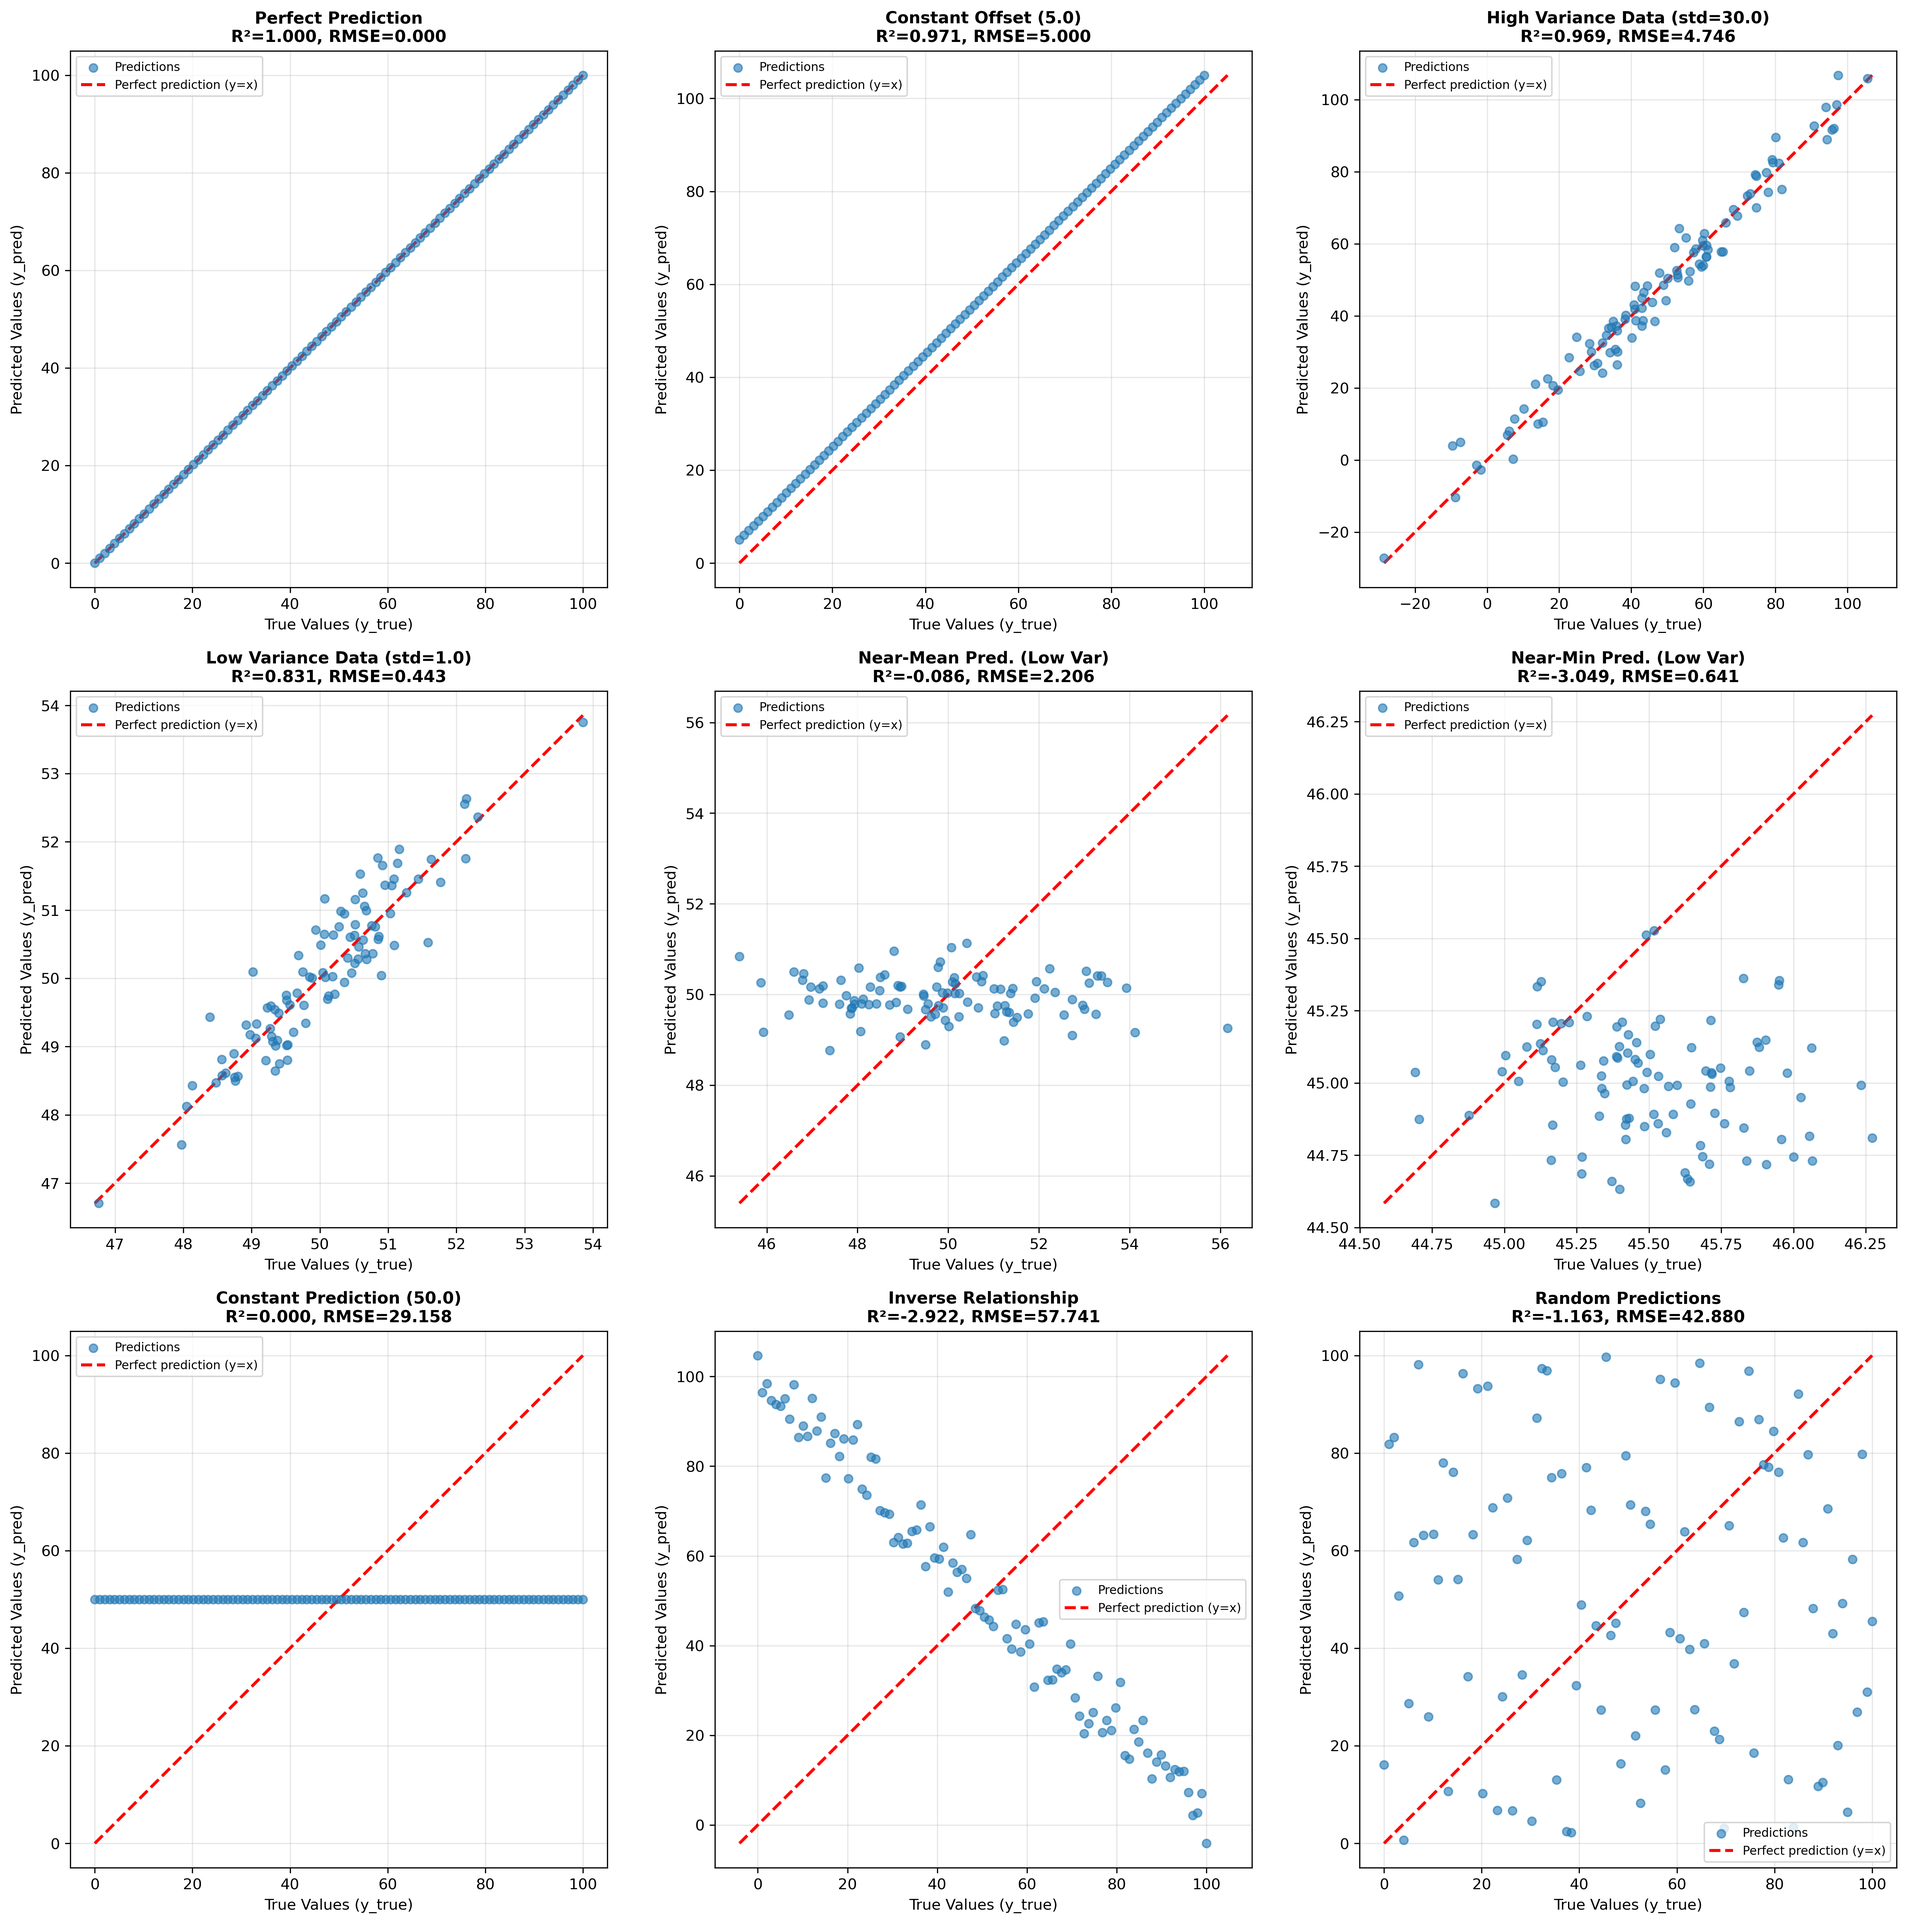
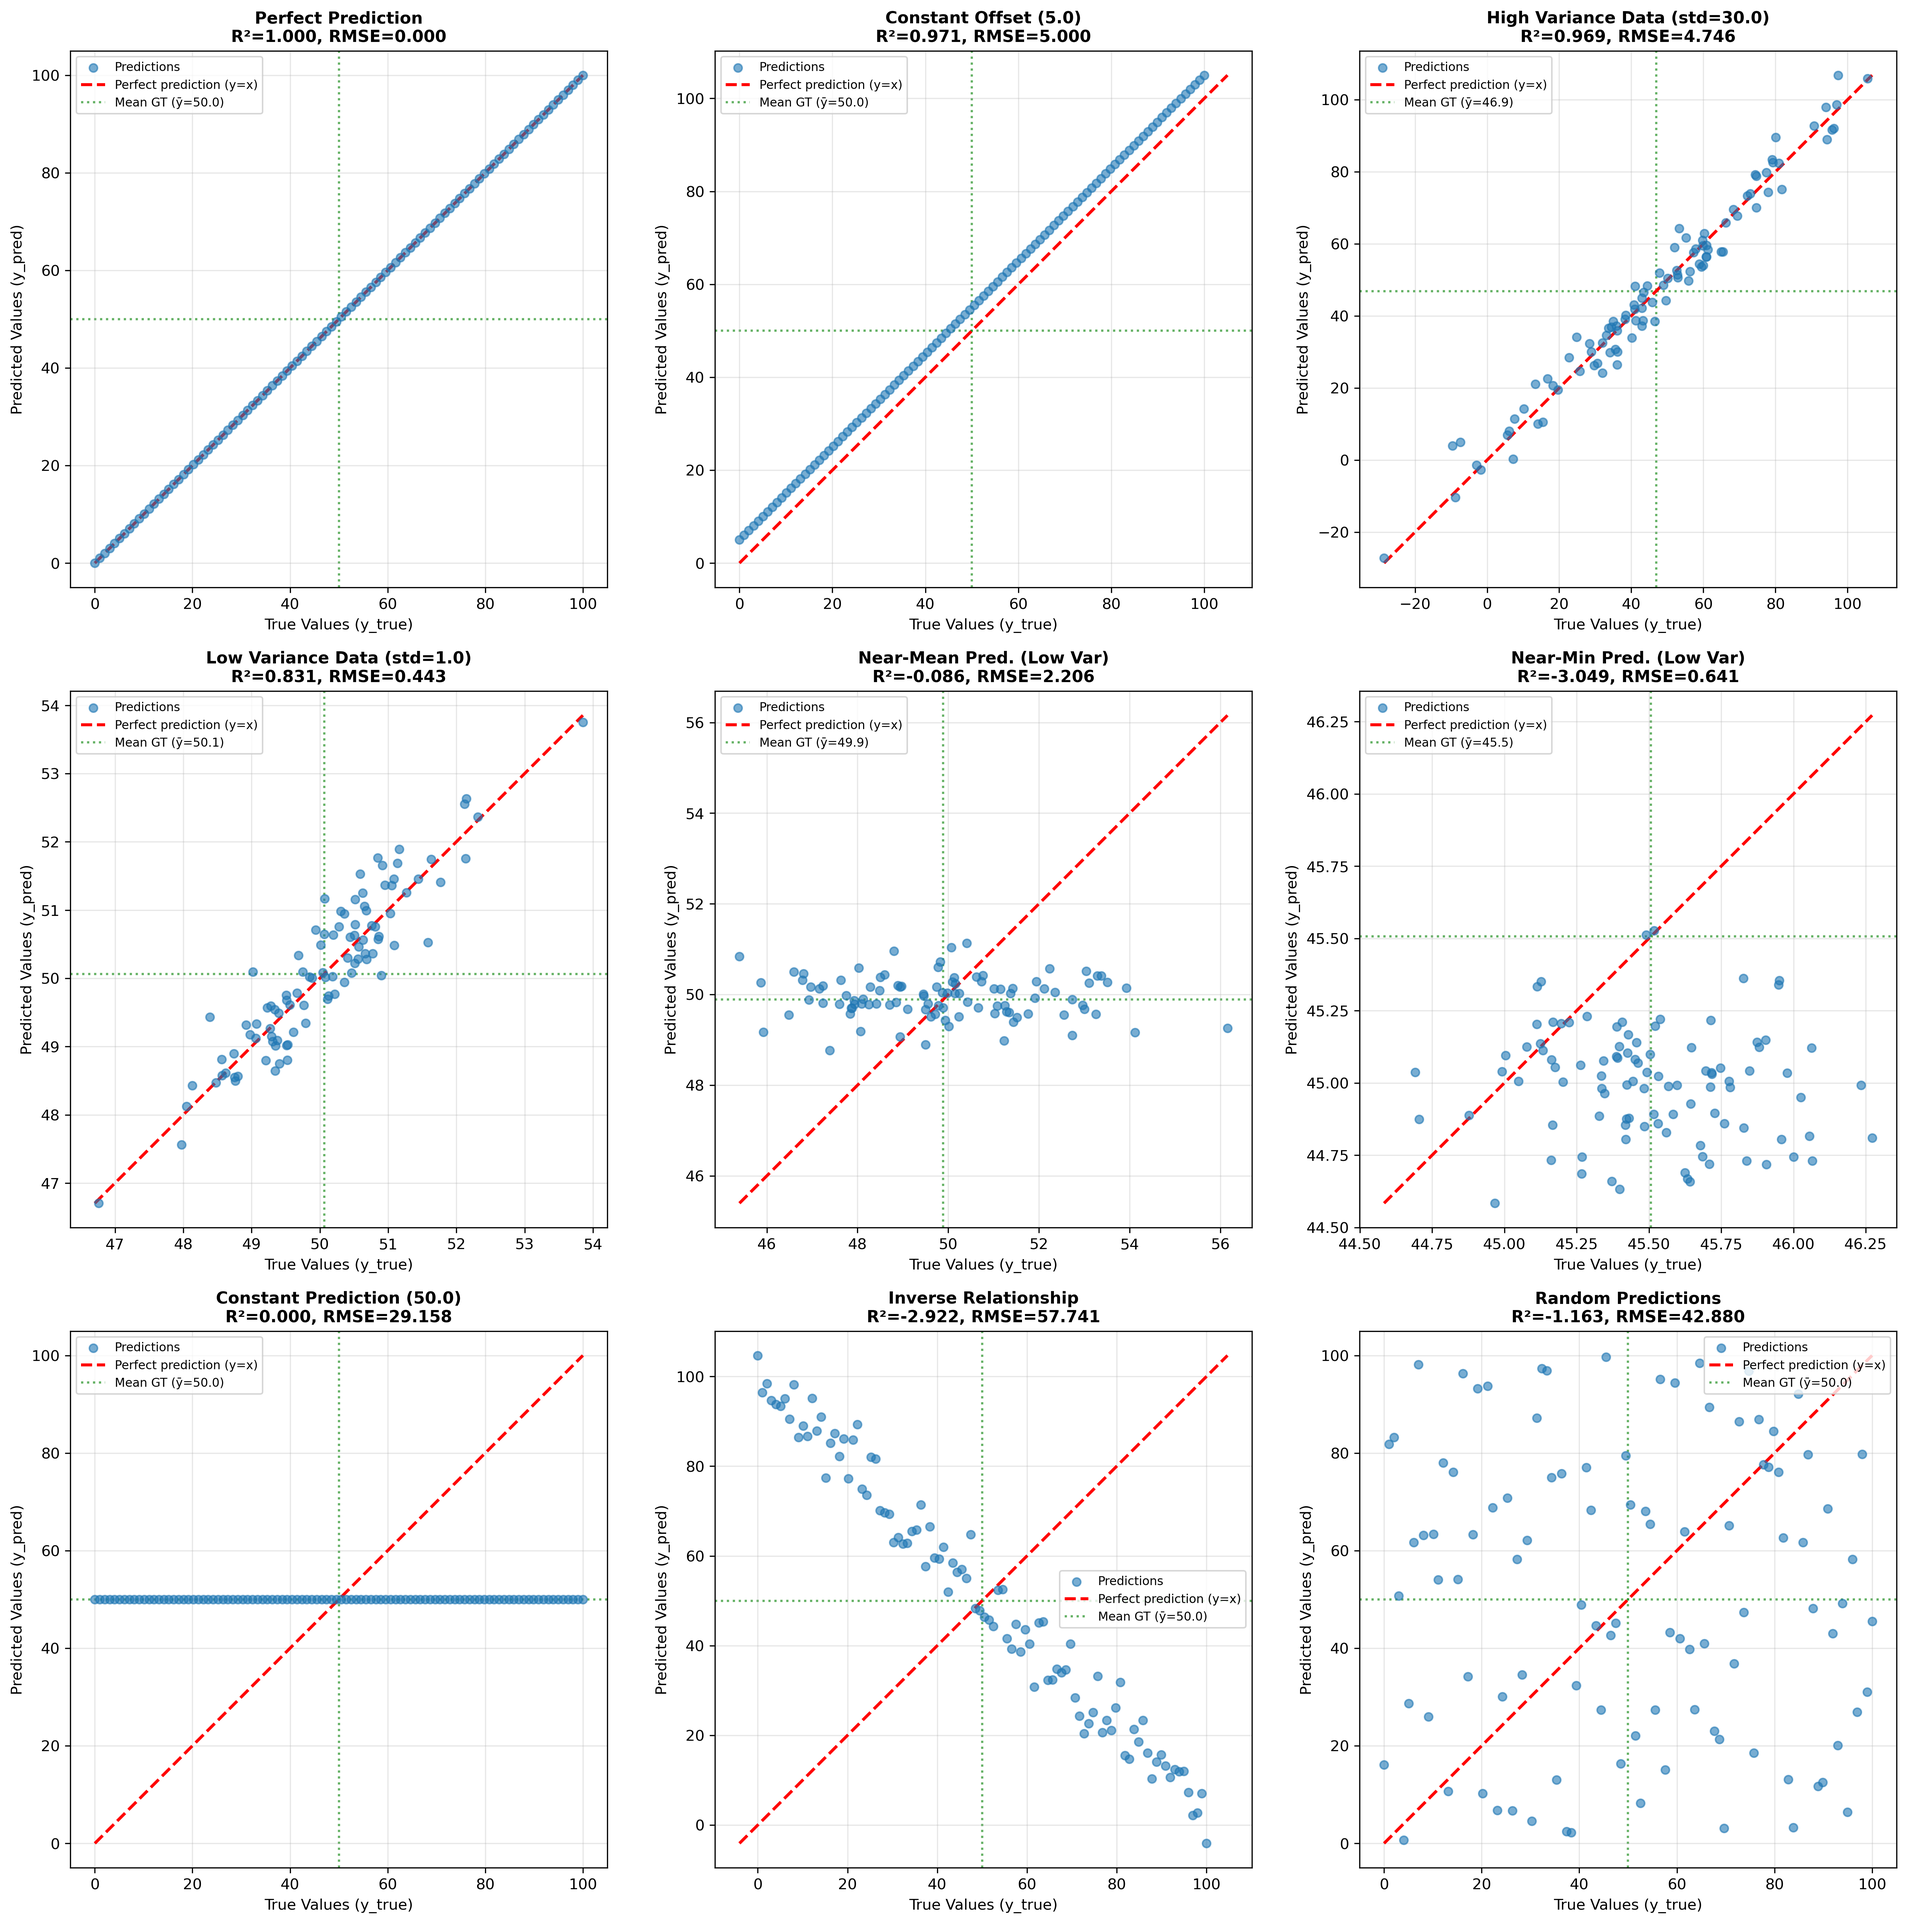
Add Mean GT lines to scenario comparison, purple SS_total lines to visual guide, and heatmap interpretation; Move docs to docs folder

Changed region(s): [[0.5621, 0.8093, 0.6558, 0.8404], [0.9056, 0.9338, 0.968, 0.965], [0.9056, 0.6848, 0.9368, 0.7159]]

diff --git a/investigate_r_score_rmse_synergy.py b/investigate_r_score_rmse_synergy.py
@@ -214,15 +214,13 @@ def visualize_scenario(scenario: Dict, ax: plt.Axes, show_details: bool = False)
     ax.plot([plot_min, plot_max], [plot_min, plot_max],
             'r--', linewidth=2, label='Perfect prediction (y=x)', zorder=2)
     
+    # Always show mean lines for visual reference
+    ax.axhline(y=y_mean, color='green', linestyle=':', linewidth=1.5, 
+               label=f'Mean GT (ȳ={y_mean:.1f})', alpha=0.6, zorder=1)
+    ax.axvline(x=y_mean, color='green', linestyle=':', linewidth=1.5, 
+               alpha=0.6, zorder=1)
+    
     if show_details:
-        # Add horizontal line at mean of y_true
-        ax.axhline(y=y_mean, color='green', linestyle=':', linewidth=2, 
-                   label=f'Mean GT (ȳ={y_mean:.1f})', alpha=0.7, zorder=1)
-        
-        # Add vertical line at mean of y_true
-        ax.axvline(x=y_mean, color='green', linestyle=':', linewidth=2, 
-                   alpha=0.7, zorder=1)
-        
         # Show residuals for a few points
         sample_indices = np.linspace(0, len(y_true)-1, min(5, len(y_true)), dtype=int)
         for idx in sample_indices:
@@ -480,26 +478,50 @@ def create_rmse_r2_heatmap(n_points: int = 50) -> None:
     im1 = ax1.contourf(noise_range, variance_range, r2_grid, levels=20, cmap='RdYlGn')
     ax1.set_xscale('log')
     ax1.set_yscale('log')
-    ax1.set_xlabel('Prediction Noise (σ)', fontsize=12)
-    ax1.set_ylabel('Ground Truth Variance (σ²)', fontsize=12)
-    ax1.set_title('R² Score Heatmap', fontsize=14, fontweight='bold')
-    plt.colorbar(im1, ax=ax1, label='R² Score')
+    ax1.set_xlabel('Prediction Noise (σ)', fontsize=12, fontweight='bold')
+    ax1.set_ylabel('Ground Truth Variance (σ²)', fontsize=12, fontweight='bold')
+    ax1.set_title('R² Score Heatmap\nHow R² varies with data variance and prediction noise', 
+                  fontsize=13, fontweight='bold')
+    cbar1 = plt.colorbar(im1, ax=ax1, label='R² Score')
     ax1.grid(True, alpha=0.3)
+    
+    # Add interpretation text
+    ax1.text(0.02, 0.98, 'High variance + Low noise → High R²\nLow variance + High noise → Low/Negative R²', 
+             transform=ax1.transAxes, fontsize=9, va='top',
+             bbox=dict(boxstyle='round', facecolor='wheat', alpha=0.8))
     
     # Plot 2: RMSE heatmap
     im2 = ax2.contourf(noise_range, variance_range, rmse_grid, levels=20, cmap='YlOrRd')
     ax2.set_xscale('log')
     ax2.set_yscale('log')
-    ax2.set_xlabel('Prediction Noise (σ)', fontsize=12)
-    ax2.set_ylabel('Ground Truth Variance (σ²)', fontsize=12)
-    ax2.set_title('RMSE Heatmap', fontsize=14, fontweight='bold')
-    plt.colorbar(im2, ax=ax2, label='RMSE')
+    ax2.set_xlabel('Prediction Noise (σ)', fontsize=12, fontweight='bold')
+    ax2.set_ylabel('Ground Truth Variance (σ²)', fontsize=12, fontweight='bold')
+    ax2.set_title('RMSE Heatmap\nHow RMSE varies with data variance and prediction noise', 
+                  fontsize=13, fontweight='bold')
+    cbar2 = plt.colorbar(im2, ax=ax2, label='RMSE')
     ax2.grid(True, alpha=0.3)
+    
+    # Add interpretation text
+    ax2.text(0.02, 0.98, 'RMSE ≈ Prediction Noise (σ)\nIndependent of ground truth variance!', 
+             transform=ax2.transAxes, fontsize=9, va='top',
+             bbox=dict(boxstyle='round', facecolor='lightyellow', alpha=0.8))
+    
+    # Add overall figure title
+    fig.suptitle('Impact of Ground Truth Variance and Prediction Noise on Metrics\n' + 
+                 'Key Insight: RMSE depends only on noise, but R² depends on BOTH variance and noise',
+                 fontsize=14, fontweight='bold', y=1.00)
     
     plt.tight_layout()
     output_path = PLOTS_DIR / 'variance_noise_impact_heatmap.png'
     plt.savefig(output_path, dpi=300, bbox_inches='tight')
     print(f"Saved: {output_path}")
+    print(f"\nHeatmap Interpretation:")
+    print(f"  LEFT (R² Heatmap): Shows R² is sensitive to BOTH variance and noise")
+    print(f"    - Green (high R²): High variance OR low noise")
+    print(f"    - Red (low R²): Low variance AND high noise")
+    print(f"  RIGHT (RMSE Heatmap): Shows RMSE depends mainly on prediction noise")
+    print(f"    - RMSE ≈ prediction noise (horizontal bands)")
+    print(f"    - Ground truth variance has minimal effect on RMSE")
     plt.close(fig)  # Close instead of show for non-interactive mode
 
 

diff --git a/create_visual_guide.py b/create_visual_guide.py
@@ -33,13 +33,16 @@ ax1.axvline(x=y_mean, color='green', linestyle=':', linewidth=3, alpha=0.8, zord
 # Draw red line (y=x)
 ax1.plot([0, 10], [0, 10], 'r--', linewidth=3, alpha=0.8, zorder=2)
 
-# Draw points and residuals
+# Draw points, residuals, and SS_total components
 for i, (x, y) in enumerate(points):
     # Blue point
     ax1.scatter(x, y, s=200, c='steelblue', edgecolors='black', linewidth=2, zorder=5)
     
-    # Orange residual line (to y=x)
+    # Orange residual line (to y=x line - for SS_residual)
     ax1.plot([x, x], [y, x], color='orange', linewidth=3, alpha=0.8, zorder=4)
+    
+    # Purple horizontal line (from true value to mean - for SS_total)
+    ax1.plot([x, y_mean], [y, y], color='purple', linewidth=3, alpha=0.7, zorder=3)
     
     # Annotate specific points
     if i == 0:  # First point - detailed annotation
@@ -56,6 +59,13 @@ for i, (x, y) in enumerate(points):
                     fontsize=10, fontweight='bold',
                     bbox=dict(boxstyle='round', facecolor='lightyellow', alpha=0.8),
                     arrowprops=dict(arrowstyle='->', lw=2, color='orange'))
+        
+        # Arrow for SS_total component
+        ax1.annotate('y - ȳ\n= 3 - 5 = -2\n(for SS_total)', 
+                    xy=((x+y_mean)/2, y), xytext=(2.5, 1),
+                    fontsize=10, fontweight='bold',
+                    bbox=dict(boxstyle='round', facecolor='plum', alpha=0.8),
+                    arrowprops=dict(arrowstyle='->', lw=2, color='purple'))
     
     elif i == 1:  # Second point
         ax1.annotate('Over-prediction\n(above y=x)', 
@@ -112,11 +122,20 @@ KEY FORMULAS AND VISUAL ELEMENTS
    If all points on this line → R² = 1, RMSE = 0
 
 
-🟠 ORANGE LINES (Residuals)
+🟠 ORANGE LINES (Residuals for SS_residual)
    Definition: Vertical distance from point to red line
    Formula: residual_i = ŷ_i - y_i
    
    Length represents prediction error for each sample
+   Squared lengths summed → SS_residual
+
+
+🟣 PURPLE LINES (Deviations for SS_total)
+   Definition: Horizontal distance from point to green line
+   Formula: deviation_i = y_i - ȳ
+   
+   Length shows how far true value is from mean
+   Squared lengths summed → SS_total
 
 
 🔵 BLUE POINTS (Predictions)
@@ -131,14 +150,15 @@ KEY FORMULAS AND VISUAL ELEMENTS
 CALCULATING METRICS FROM THE PLOT
 ═══════════════════════════════════════════════════════════
 
-Step 1: SS_total (from green lines)
+Step 1: SS_total (from purple lines)
    SS_total = Σ(y_i - ȳ)²
-   = Sum of squared vertical distances 
-     from each TRUE value to green line
+   = Sum of squared LENGTHS of purple lines
+   = Total variance in ground truth
 
 Step 2: SS_residual (from orange lines)
    SS_residual = Σ(ŷ_i - y_i)²
    = Sum of squared LENGTHS of orange lines
+   = Total prediction error
 
 Step 3: R² Score
    R² = 1 - (SS_residual / SS_total)
